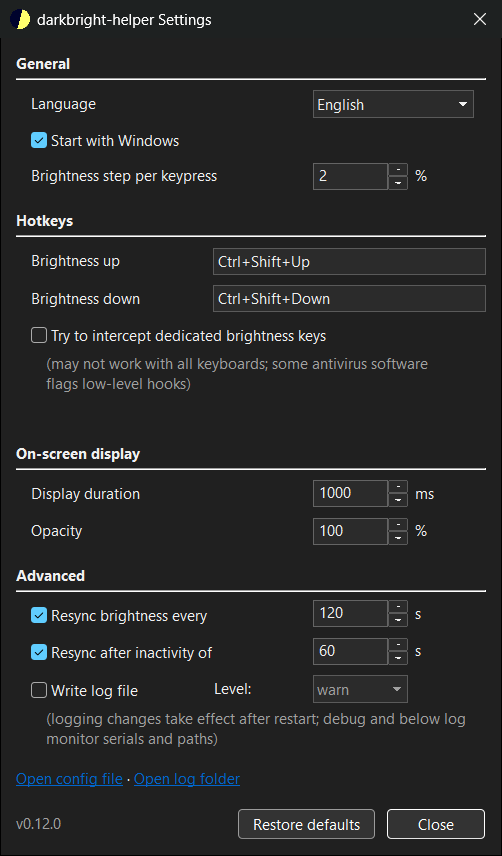
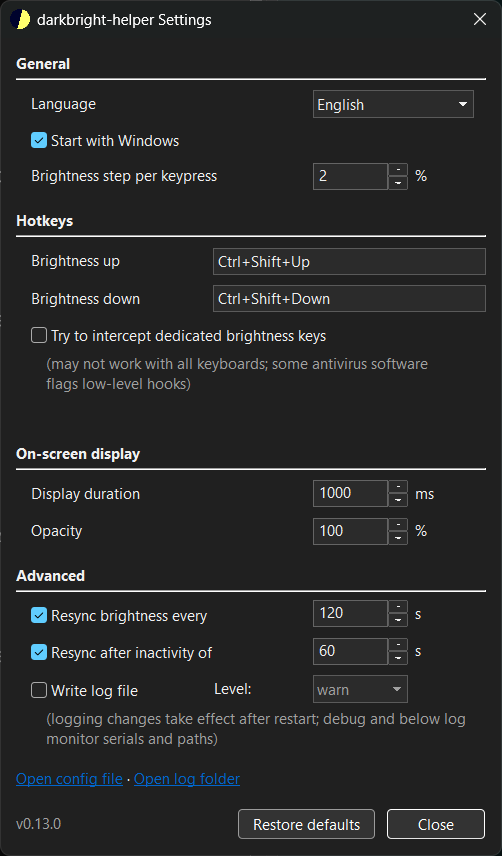
docs: retake the README screenshots with 0.13.0
Settings window 502x856 as before; tray corner 502x346, 20 px taller for the new feedback entry. Alt text names that entry.

Changed region(s): [[0.9861, 0.0304, 1.0, 1.0]]

diff --git a/README.md b/README.md
@@ -32,7 +32,7 @@ Rust.
   applying instantly. An optional "Start with Windows" toggle lives there too. The config
   file stays a fully supported escape hatch, one click away from the window's footer.
 
-![The tray context menu: live per-monitor status, the current hotkeys, and Settings, Open Log Folder and Quit](docs/media/tray-menu.png)
+![The tray context menu: live per-monitor status, the current hotkeys, and Settings, Share monitor feedback on GitHub, Open Log Folder and Quit](docs/media/tray-menu.png)
 
 ![The settings window: language, Start with Windows, brightness step, hotkey rebinding, OSD timing, refresh intervals and logging](docs/media/settings-window.png)
 
